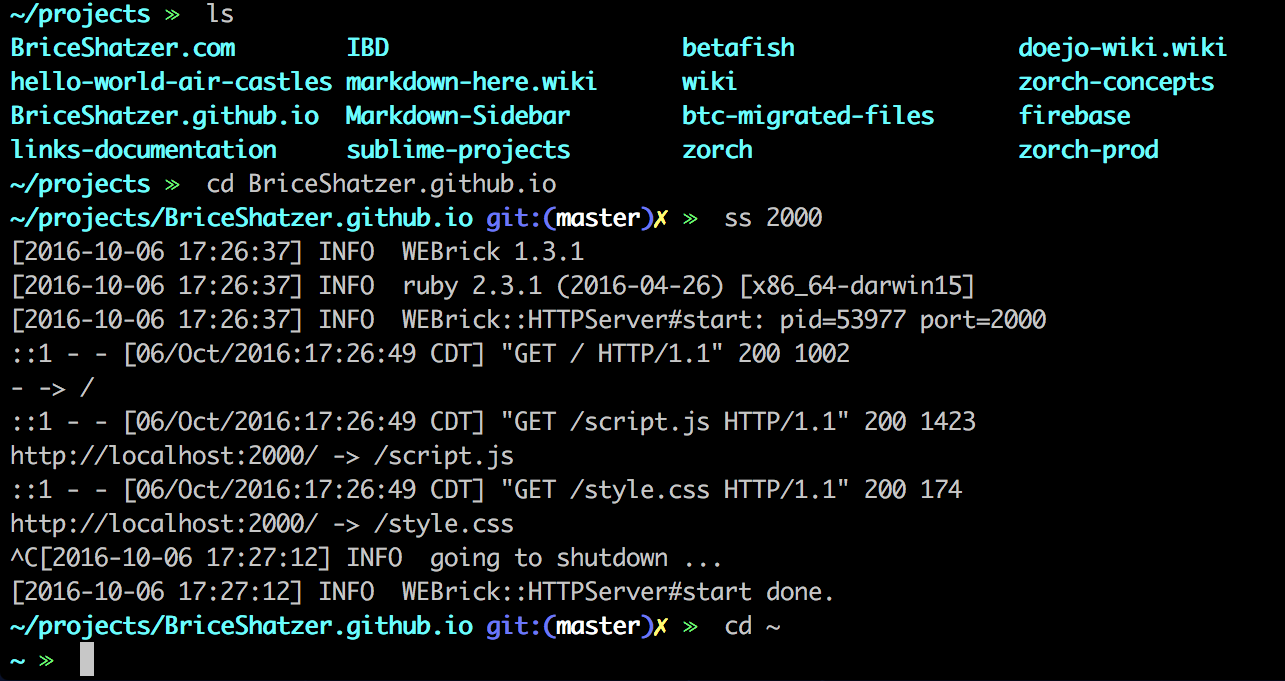
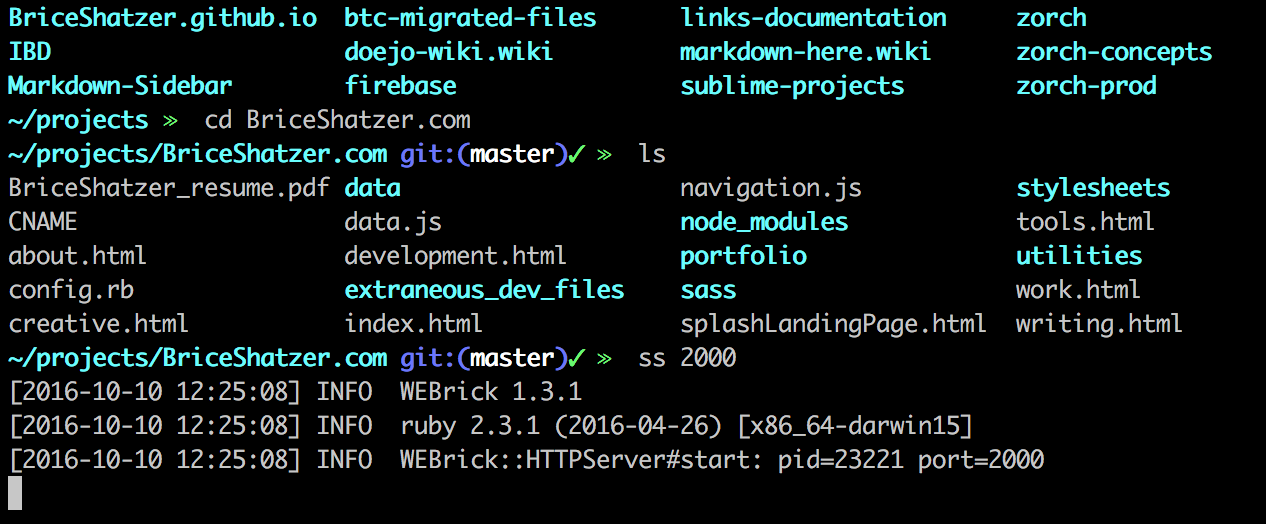
top portion update

Changed region(s): [[0.0, 0.0, 0.9242, 1.0], [0.5237, 0.0, 0.7393, 0.2443], [0.7701, 0.0, 0.955, 0.2443]]

diff --git a/style/style.css b/style/style.css
@@ -38,11 +38,8 @@ a.social:focus {
     opacity: 0.6
 }
 .top {
-    padding: 0;
-    background-image: url('/images/code-background.jpg');
-    background-image: url('/images/kingb.jpg');
-    background-image: url('/images/terminal.png');
-    /*background-image: url('/images/terminal-gaussian.png');*/
+    padding: 0;    
+    background-image: url('/images/terminal.png');    
     background-size: cover;
     text-align: center;
     background-position: center 3%;
@@ -56,14 +53,8 @@ a.social:focus {
     position: relative;
     bottom: -13vw; 
     bottom: -8vw;
-    -webkit-filter: drop-shadow(0 -1px 10px rgba(0, 0, 0, .7));
-    filter: drop-shadow(0 -1px 10px rgba(0, 0, 0, .7));
-    
-
-    /* -webkit-filter: drop-shadow(12px 12px 25px rgba(0,0,0,0.5));
-    filter: drop-shadow(12px 12px 25px rgba(0,0,0,0.5));
-    -ms-filter: "progid:DXImageTransform.Microsoft.Dropshadow(OffX=12, OffY=12, Color='#444')";
-    filter: "progid:DXImageTransform.Microsoft.Dropshadow(OffX=12, OffY=12, Color='#444')"; */
+    -webkit-filter: drop-shadow(0 -1px 4px rgba(0, 0, 0, .7));
+    filter: drop-shadow(0 -1px 4px rgba(0, 0, 0, .7));
 }
 .introduction {
     padding-top: 8vw;
